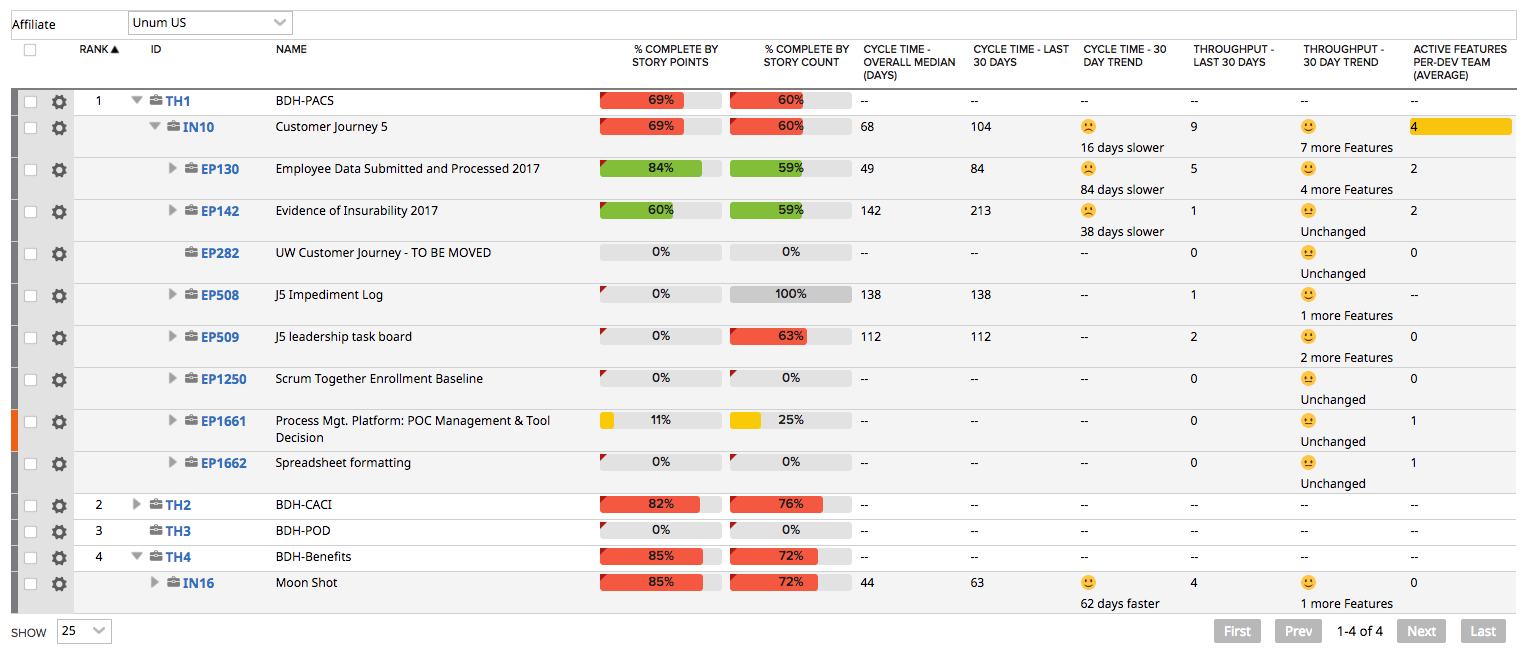
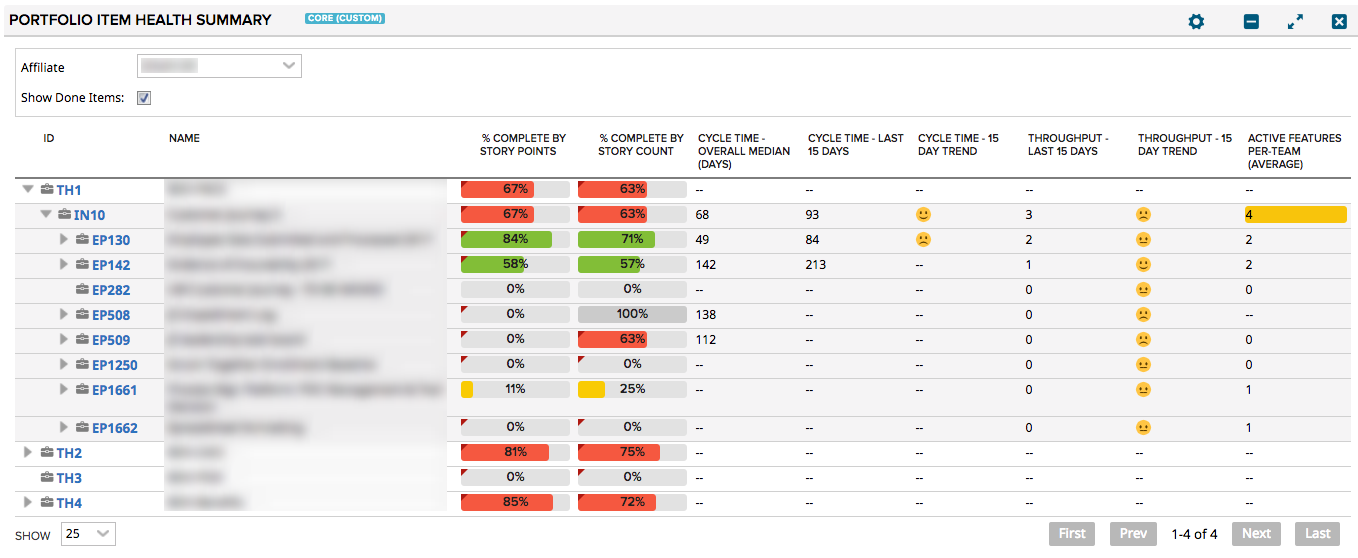
updated screenshot

Changed region(s): [[0.0, 0.0, 1.0, 1.0], [0.7423, 0.5484, 0.8041, 0.5789], [0.7423, 0.7616, 0.7732, 0.7921]]

diff --git a/README.md b/README.md
@@ -4,21 +4,13 @@
 
 ![screenshot](./images/screenshot.png "This is an example")
 
-## Open Questions
-* Desired name? - "Delivery Health"
-   * How well are you executing on yoru plan (from point of view of value being delivered)
-* Sure you want median?
-   * [61,93,104,112,138]
-* Note that data from mgmt projects is excluded from ALL metrics. For example "% Done by Story Count" only
-* counts features from dev projects...and does not use the rolled up data available on the Initiative/Epic
-* since that contains data from features from all projects.
-*  * Lookback can be VERY slow or never return. Consider WSAPI
-
 ## Version History
 * 0.0.1 - Initial version for basic testing
+* 1.0.0 - Filter by done items. Exclude project types from WIP. Configurable cell data.
 
-## Development Notes
-
+## Useage Notes
+* Use page settings to set a global scope.
+* Use app settings to enable additional trend and active feature metrics information.
 
 ### First Load
 
